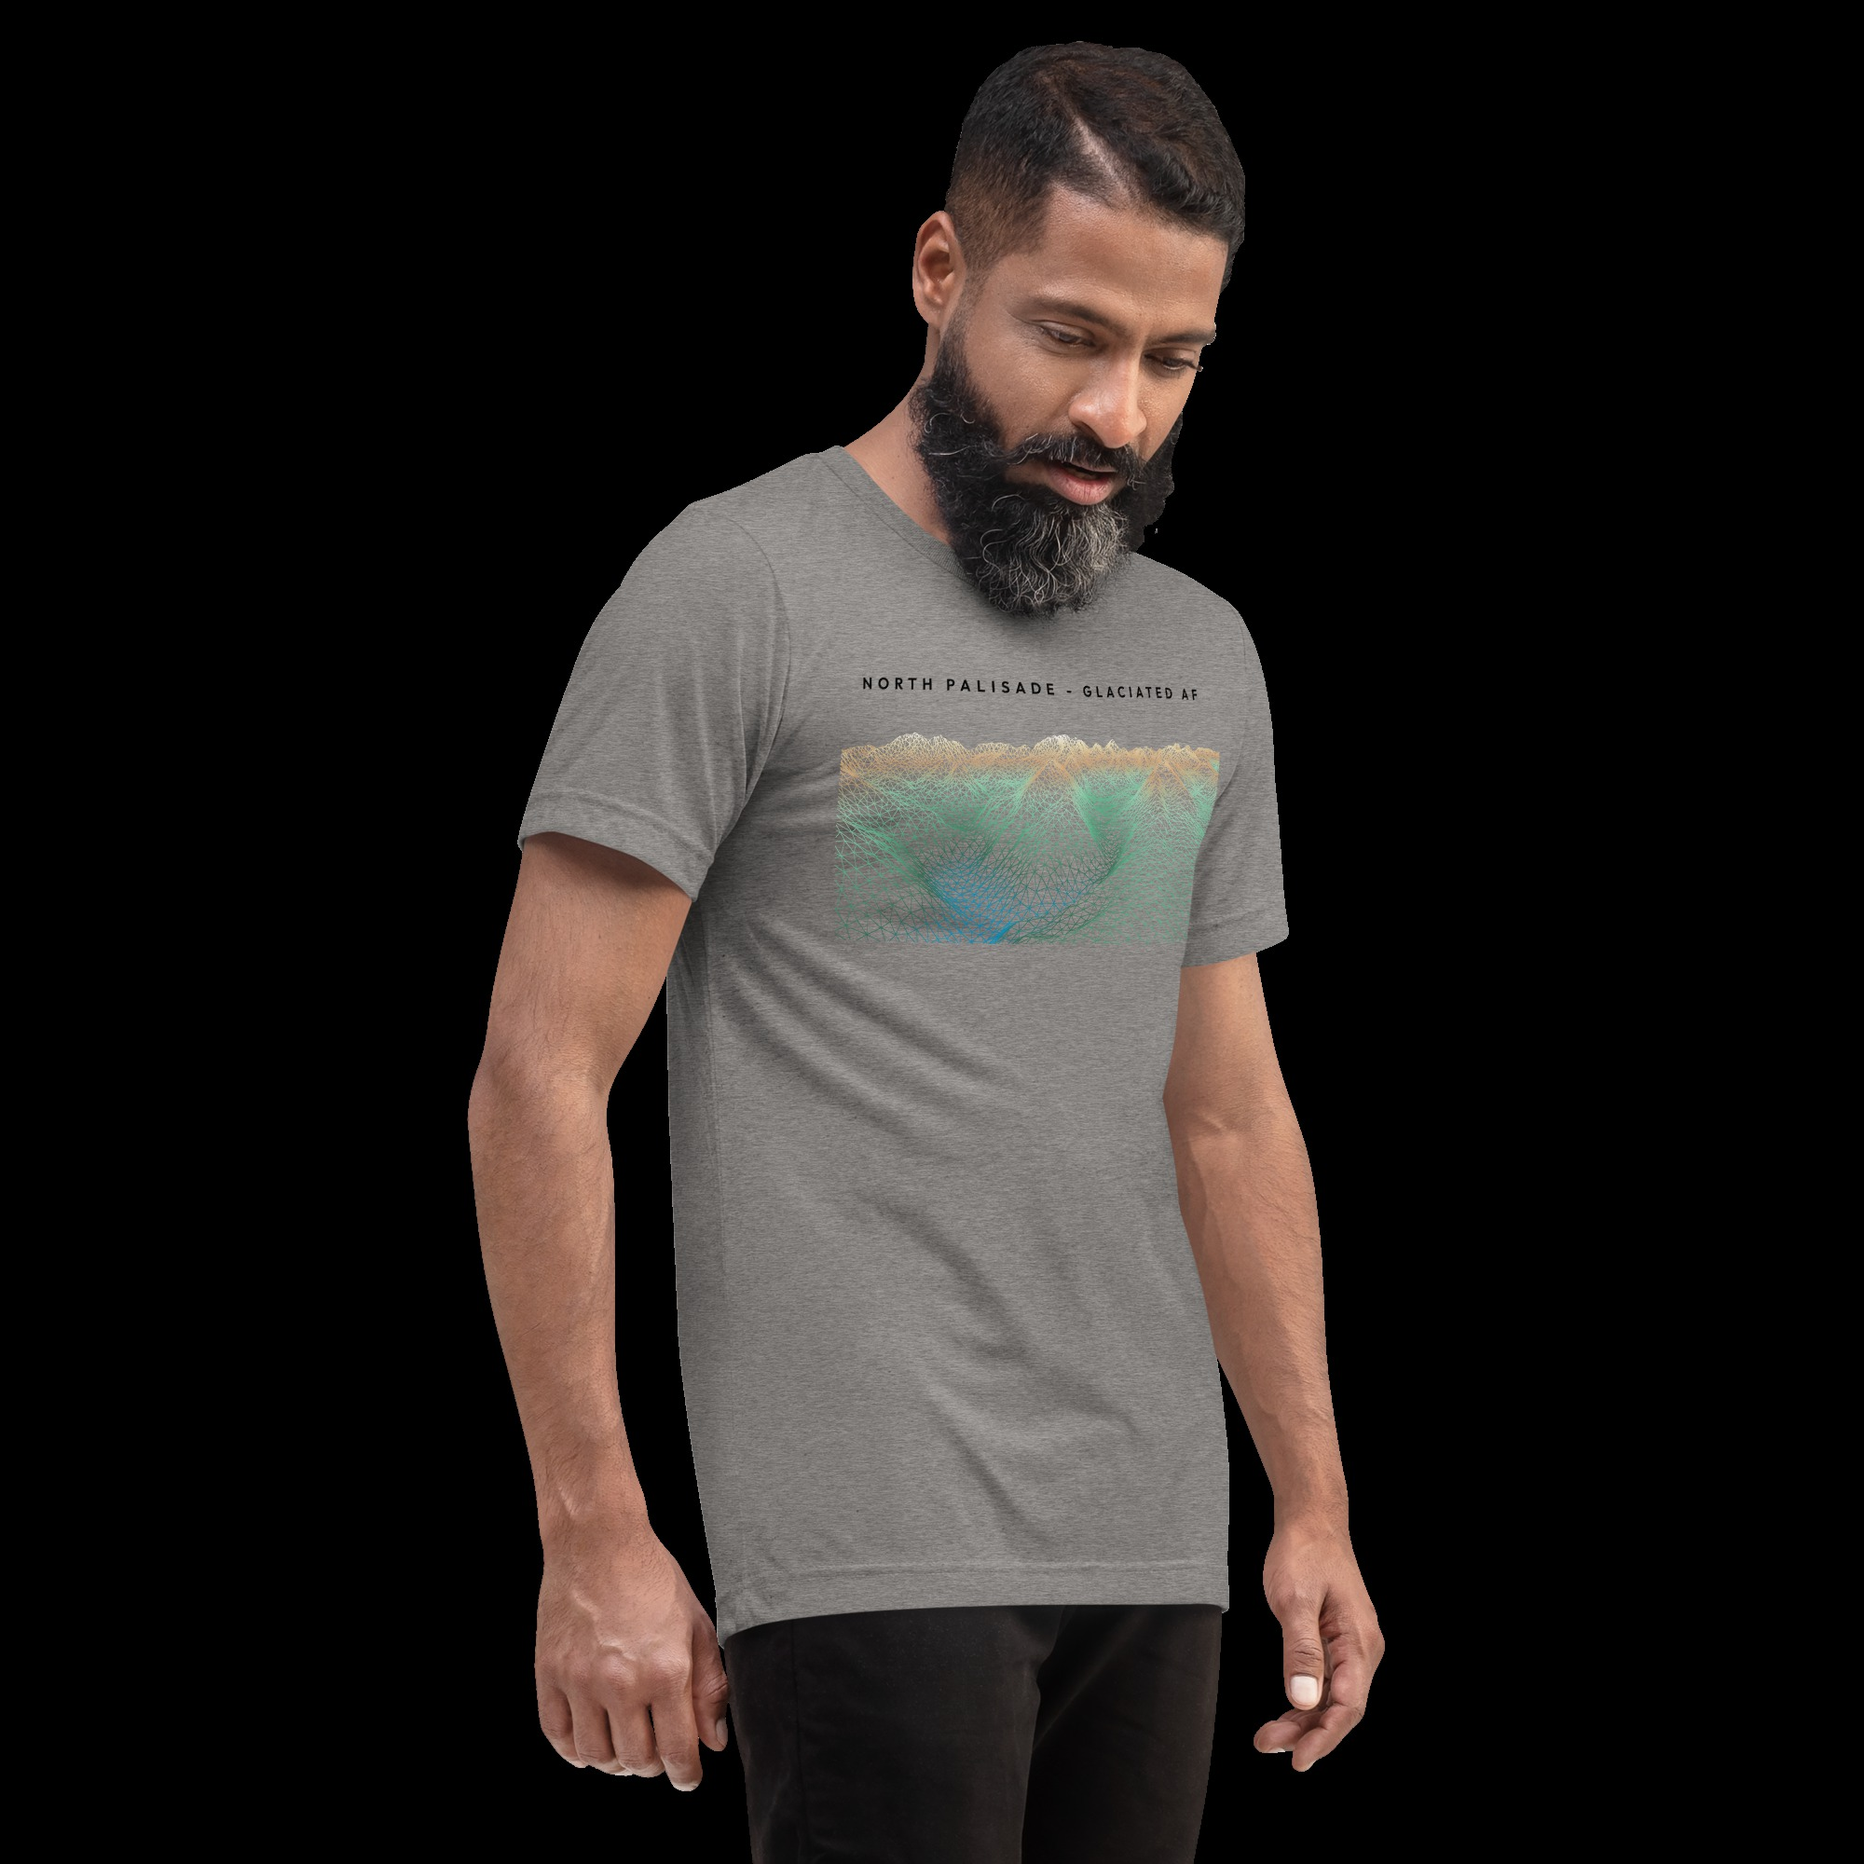
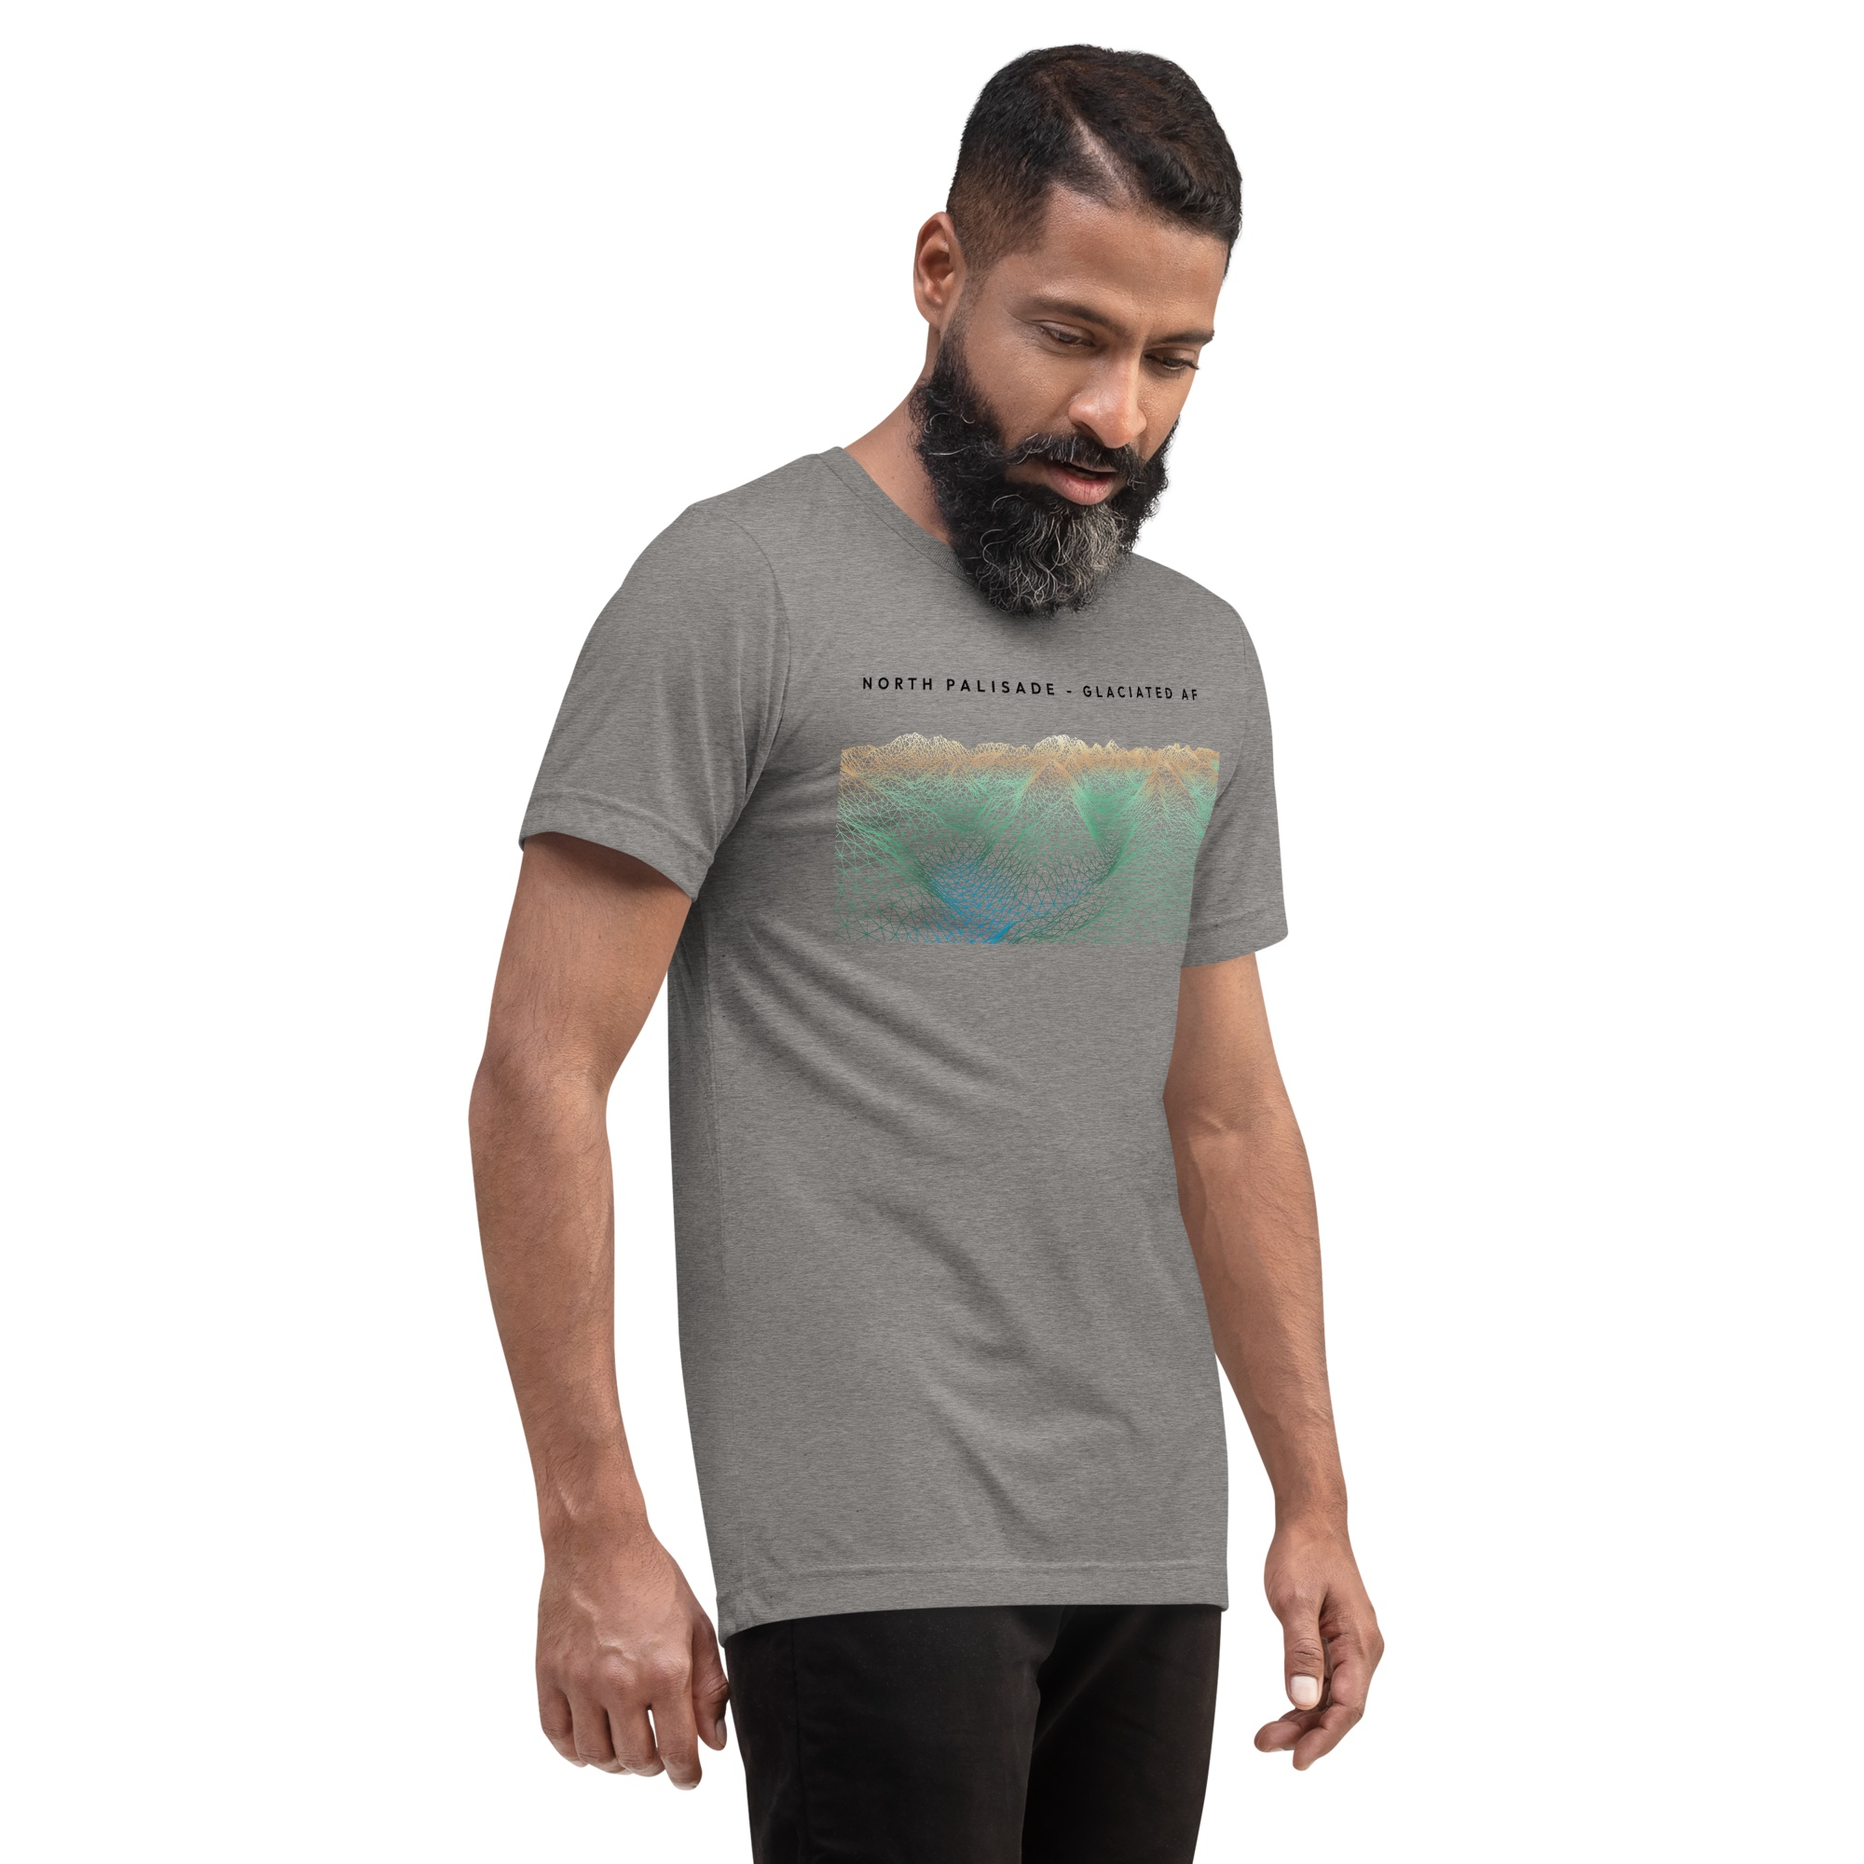
feat(sync): add colorway model mockups sync to sync_to_stripe.py with white/lifestyle backgrounds

diff --git a/sync_to_stripe.py b/sync_to_stripe.py
@@ -1,7 +1,10 @@
 import os
 import json
 import re
+import time
 from decimal import Decimal
+from io import BytesIO
+from PIL import Image
 import requests
 import stripe
 
@@ -38,37 +41,85 @@ BASE_DIR = os.path.dirname(os.path.abspath(__file__))
 IMAGES_DIR = os.path.join(BASE_DIR, "assets", "images", "products")
 DATA_DIR = os.path.join(BASE_DIR, "_data")
 os.makedirs(IMAGES_DIR, exist_ok=True)
-os.makedirs(DATA_DIR, exist_ok=True)
+DATA_DIR_PATH = os.path.abspath(DATA_DIR)
+os.makedirs(DATA_DIR_PATH, exist_ok=True)
 
 OUTPUT_FILE = os.path.join(DATA_DIR, "merch_products.json")
 LEGACY_WHITNEY_FILE = os.path.join(DATA_DIR, "whitney_merch_links.json")
 
-# Custom marketing descriptions & tags for specific products
+def save_clean_image(img_bytes, dest_path):
+    """
+    Saves an image as high-quality RGB JPEG (quality=95).
+    Guarantees no black backgrounds:
+    - If the image has an alpha channel, composites onto a pure white (255, 255, 255) background.
+    - If the image is a lifestyle photo without alpha, preserves the lifestyle background.
+    """
+    im = Image.open(BytesIO(img_bytes))
+    if im.mode in ('RGBA', 'LA') or (im.mode == 'P' and 'transparency' in im.info):
+        im = im.convert('RGBA')
+        bg = Image.new('RGB', im.size, (255, 255, 255))
+        bg.paste(im, mask=im.split()[3])
+        im = bg
+    elif im.mode != 'RGB':
+        im = im.convert('RGB')
+    im.save(dest_path, 'JPEG', quality=95)
+
+# Custom marketing descriptions, tags, and model mockup configurations
 PRODUCT_METADATA = {
     480089207: {  # Mount Whitney
         "display_name": "Mount Whitney Ridgelines Elevation Graphic T-Shirt",
         "tag": "California Peaks · Direct Print-on-Demand",
-        "description": "Stacked algorithmic ridgeline contours of California's highest summit (14,505 ft). Printed on premium cotton with soft water-based inks."
+        "description": "Stacked algorithmic ridgeline contours of California's highest summit (14,505 ft). Printed on premium cotton with soft water-based inks.",
+        "model_prefix": "model_whitney",
+        "model_config": {
+            "option_group": "Women's 4",
+            "option": "Front",
+            "top": 300
+        }
     },
     480350932: {  # North Palisade
         "display_name": "North Palisade - Glaciated AF - Tri-Blend T-Shirt",
         "tag": "High Sierra 14ers · Direct Print-on-Demand",
-        "description": "Topographic elevation artwork celebrating North Palisade and the Palisade Glacier in California's High Sierra. Printed on ultra-soft tri-blend fabric."
+        "description": "Topographic elevation artwork celebrating North Palisade and the Palisade Glacier in California's High Sierra. Printed on ultra-soft tri-blend fabric.",
+        "model_prefix": "model_palisade",
+        "model_config": {
+            "option_group": "Men's 3",
+            "option": "Right Front",
+            "top": 300
+        }
     },
     480312304: {  # Rainbow Sunflower
         "display_name": "Rainbow Sunflower Tri-Blend T-Shirt",
         "tag": "Algorithmic Art · Direct Print-on-Demand",
-        "description": "Vibrant algorithmic floral geometry blending mathematical phyllotaxis spiral patterns with a vivid chromatic gradient spectrum."
+        "description": "Vibrant algorithmic floral geometry blending mathematical phyllotaxis spiral patterns with a vivid chromatic gradient spectrum.",
+        "model_prefix": "model_sunflower",
+        "model_config": {
+            "option_group": "Women's 4",
+            "option": "Front",
+            "top": 250
+        }
     },
     479948902: {  # Bubbles!
         "display_name": "Bubbles! Procedural Graphic T-Shirt",
         "tag": "Mathematical Geometry · Direct Print-on-Demand",
-        "description": "Original generative circle packing and procedural bubble membrane geometry rendered with striking modern color contrasts."
+        "description": "Original generative circle packing and procedural bubble membrane geometry rendered with striking modern color contrasts.",
+        "model_prefix": "model_bubbles",
+        "model_config": {
+            "option_group": "Men's Lifestyle",
+            "option": "Front",
+            "top": 0
+        }
     },
     479899530: {  # Violet Eye Hex Mandala
         "display_name": "Violet Eye Hexagon Mandala Graphic T-Shirt",
         "tag": "Fractal Art · Direct Print-on-Demand",
-        "description": "Intricate hexagon fractal mandala spiraling into an intense geometric center. A striking statement piece for fans of fractal geometry."
+        "description": "Intricate hexagon fractal mandala spiraling into an intense geometric center. A striking statement piece for fans of fractal geometry.",
+        "model_prefix": "model_violet",
+        "model_config": {
+            "option_group": "Women's Lifestyle 2",
+            "option": "Front",
+            "top": 200
+        }
     }
 }
 
@@ -81,12 +132,140 @@ def slugify(text):
 def parse_garment_name(raw_name):
     if not raw_name:
         return "Premium Unisex T-Shirt"
-    # Extract string before parentheses e.g. "Bella + Canvas 3001 Unisex Short Sleeve Jersey T-Shirt"
     match = re.match(r'^([^(]+)', raw_name)
     if match:
         name = match.group(1).replace("with Tear Away Label", "").strip()
         return re.sub(r'\s+', ' ', name)
     return raw_name
+
+def sync_model_mockups(pid, prod_slug, variants, color_groups, custom_meta):
+    """
+    Ensures high-resolution (2000px) colorway model mockups exist for each color of the product,
+    saving them with clean white or lifestyle backgrounds (no black backgrounds).
+    Returns (product_model_image_rel, dict_of_color_to_model_image_rel).
+    """
+    model_prefix = custom_meta.get("model_prefix", f"model_{prod_slug}")
+    model_cfg = custom_meta.get("model_config")
+
+    primary_rel = f"/assets/images/products/{model_prefix}.jpg"
+    primary_path = os.path.join(IMAGES_DIR, f"{model_prefix}.jpg")
+
+    color_model_images = {}
+    missing_for_task = {}  # catalog_variant_id -> color_name
+
+    for color, var_list in color_groups.items():
+        color_slug = slugify(color)
+        model_filename = f"{model_prefix}_{color_slug}.jpg"
+        model_rel = f"/assets/images/products/{model_filename}"
+        model_path = os.path.join(IMAGES_DIR, model_filename)
+
+        if os.path.exists(model_path) and os.path.getsize(model_path) > 0:
+            color_model_images[color] = model_rel
+        elif model_cfg:
+            cat_vid = var_list[0].get("variant_id")
+            if cat_vid:
+                missing_for_task[cat_vid] = color
+
+    # If any colors are missing mockups and we have a model_config, generate in batch
+    if missing_for_task and model_cfg:
+        v0 = variants[0] if variants else {}
+        cat_prod_id = v0.get("product", {}).get("product_id")
+        art_file = next((f for f in v0.get("files", []) if f.get("type") == "front_large"), None)
+        if not art_file:
+            art_file = next((f for f in v0.get("files", []) if f.get("preview_url")), None)
+
+        if cat_prod_id and art_file and art_file.get("preview_url"):
+            print(f"  Generating {len(missing_for_task)} missing 2000px model mockups for {model_prefix}...")
+            area_w = 1800 if cat_prod_id == 162 else 2250
+            area_h = 2400 if cat_prod_id == 162 else 2700
+            w = area_w
+            art_w = art_file.get("width") or 4000
+            art_h = art_file.get("height") or 4000
+            h = int(art_h * area_w / art_w)
+            if h > area_h:
+                h = area_h
+                w = int(art_w * area_h / art_h)
+            top = model_cfg.get("top", 200)
+            left = max(0, (area_w - w) // 2)
+
+            pos = {
+                "area_width": area_w,
+                "area_height": area_h,
+                "width": w,
+                "height": h,
+                "top": top,
+                "left": left
+            }
+
+            payload = {
+                "variant_ids": list(missing_for_task.keys()),
+                "format": "jpg",
+                "width": 2000,
+                "option_groups": [model_cfg["option_group"]],
+                "options": [model_cfg["option"]],
+                "files": [{
+                    "placement": "front_large",
+                    "image_url": art_file["preview_url"],
+                    "position": pos
+                }]
+            }
+
+            try:
+                task_res = requests.post(
+                    f"https://api.printful.com/mockup-generator/create-task/{cat_prod_id}",
+                    headers={
+                        "Authorization": f"Bearer {PRINTFUL_API_KEY}",
+                        "X-PF-Store-Id": PRINTFUL_STORE_ID
+                    },
+                    json=payload,
+                    timeout=20
+                ).json()
+
+                if task_res.get("code") == 200 and "task_key" in task_res.get("result", {}):
+                    tkey = task_res["result"]["task_key"]
+                    for _ in range(40):
+                        time.sleep(3)
+                        poll_res = requests.get(
+                            f"https://api.printful.com/mockup-generator/task?task_key={tkey}",
+                            headers={
+                                "Authorization": f"Bearer {PRINTFUL_API_KEY}",
+                                "X-PF-Store-Id": PRINTFUL_STORE_ID
+                            },
+                            timeout=15
+                        ).json()
+                        status = poll_res.get("result", {}).get("status")
+                        if status == "completed":
+                            for m in poll_res.get("result", {}).get("mockups", []):
+                                vid = m.get("variant_ids", [None])[0]
+                                c_name = missing_for_task.get(vid)
+                                if c_name and m.get("mockup_url"):
+                                    c_slug = slugify(c_name)
+                                    target_filename = f"{model_prefix}_{c_slug}.jpg"
+                                    target_path = os.path.join(IMAGES_DIR, target_filename)
+                                    target_rel = f"/assets/images/products/{target_filename}"
+                                    img_content = requests.get(m["mockup_url"], timeout=20).content
+                                    save_clean_image(img_content, target_path)
+                                    color_model_images[c_name] = target_rel
+                                    print(f"    ✓ Saved 2000px model: {c_name} -> {target_rel}")
+                            break
+                        elif status == "failed":
+                            print(f"    Warning: Mockup generation task failed for {model_prefix}: {poll_res}")
+                            break
+                else:
+                    print(f"    Warning: Failed to queue mockup task for {model_prefix}: {task_res}")
+            except Exception as e:
+                print(f"    Warning: Exception generating model mockups for {model_prefix}: {e}")
+
+    # Ensure primary model image exists
+    if not os.path.exists(primary_path) and color_model_images:
+        first_color_model = list(color_model_images.values())[0]
+        first_path = os.path.join(BASE_DIR, first_color_model.lstrip("/"))
+        if os.path.exists(first_path):
+            with open(first_path, "rb") as fi, open(primary_path, "wb") as fo:
+                fo.write(fi.read())
+
+    has_primary = os.path.exists(primary_path) and os.path.getsize(primary_path) > 0
+    return (primary_rel if has_primary else None, color_model_images)
 
 # 2. Fetch existing Stripe Products & Payment Links to avoid duplicates
 print("Loading existing Stripe Live catalog...")
@@ -187,6 +366,13 @@ for sp in store_products:
         color = v.get("color", "Default")
         color_groups.setdefault(color, []).append(v)
 
+    # Sync colorway model mockups (clean white or lifestyle background, 2000px)
+    primary_model_rel, color_model_rels = sync_model_mockups(
+        pid, prod_slug, variants, color_groups, custom_meta
+    )
+    if primary_model_rel:
+        prod_entry["model_image"] = primary_model_rel
+
     for color, var_list in color_groups.items():
         color_slug = slugify(color)
         
@@ -207,12 +393,11 @@ for sp in store_products:
                     break
 
         if preview_url and not os.path.exists(local_img_path):
-            print(f"  Downloading mockup: {color} -> {local_img_rel}")
+            print(f"  Downloading flat mockup: {color} -> {local_img_rel}")
             try:
                 img_res = requests.get(preview_url, timeout=15)
                 if img_res.ok:
-                    with open(local_img_path, "wb") as f:
-                        f.write(img_res.content)
+                    save_clean_image(img_res.content, local_img_path)
             except Exception as e:
                 print(f"  Warning: Image download error for {color}: {e}")
 
@@ -222,6 +407,9 @@ for sp in store_products:
             "image": local_img_rel,
             "sizes": {}
         }
+        color_model_img = color_model_rels.get(color, primary_model_rel)
+        if color_model_img:
+            prod_entry["colors"][color]["model_image"] = color_model_img
 
         for v in var_list:
             sync_variant_id = str(v["id"])
